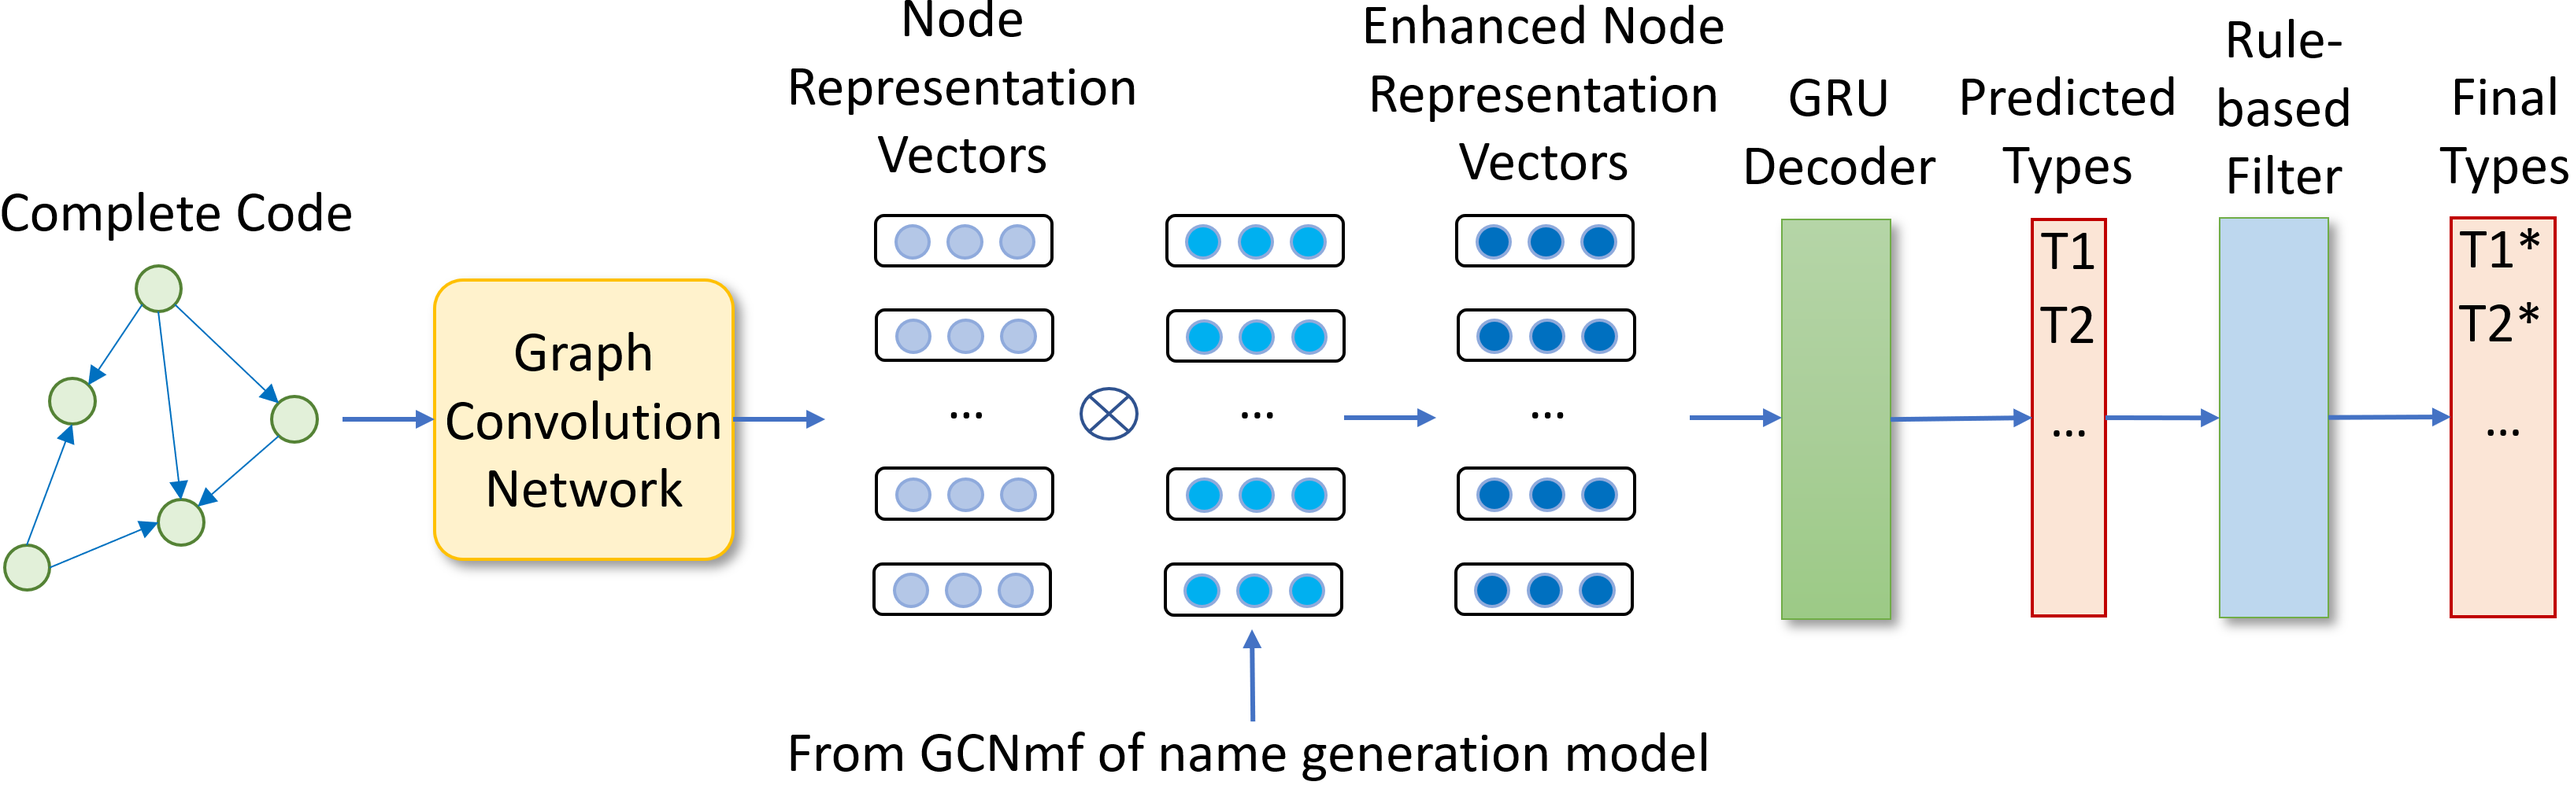
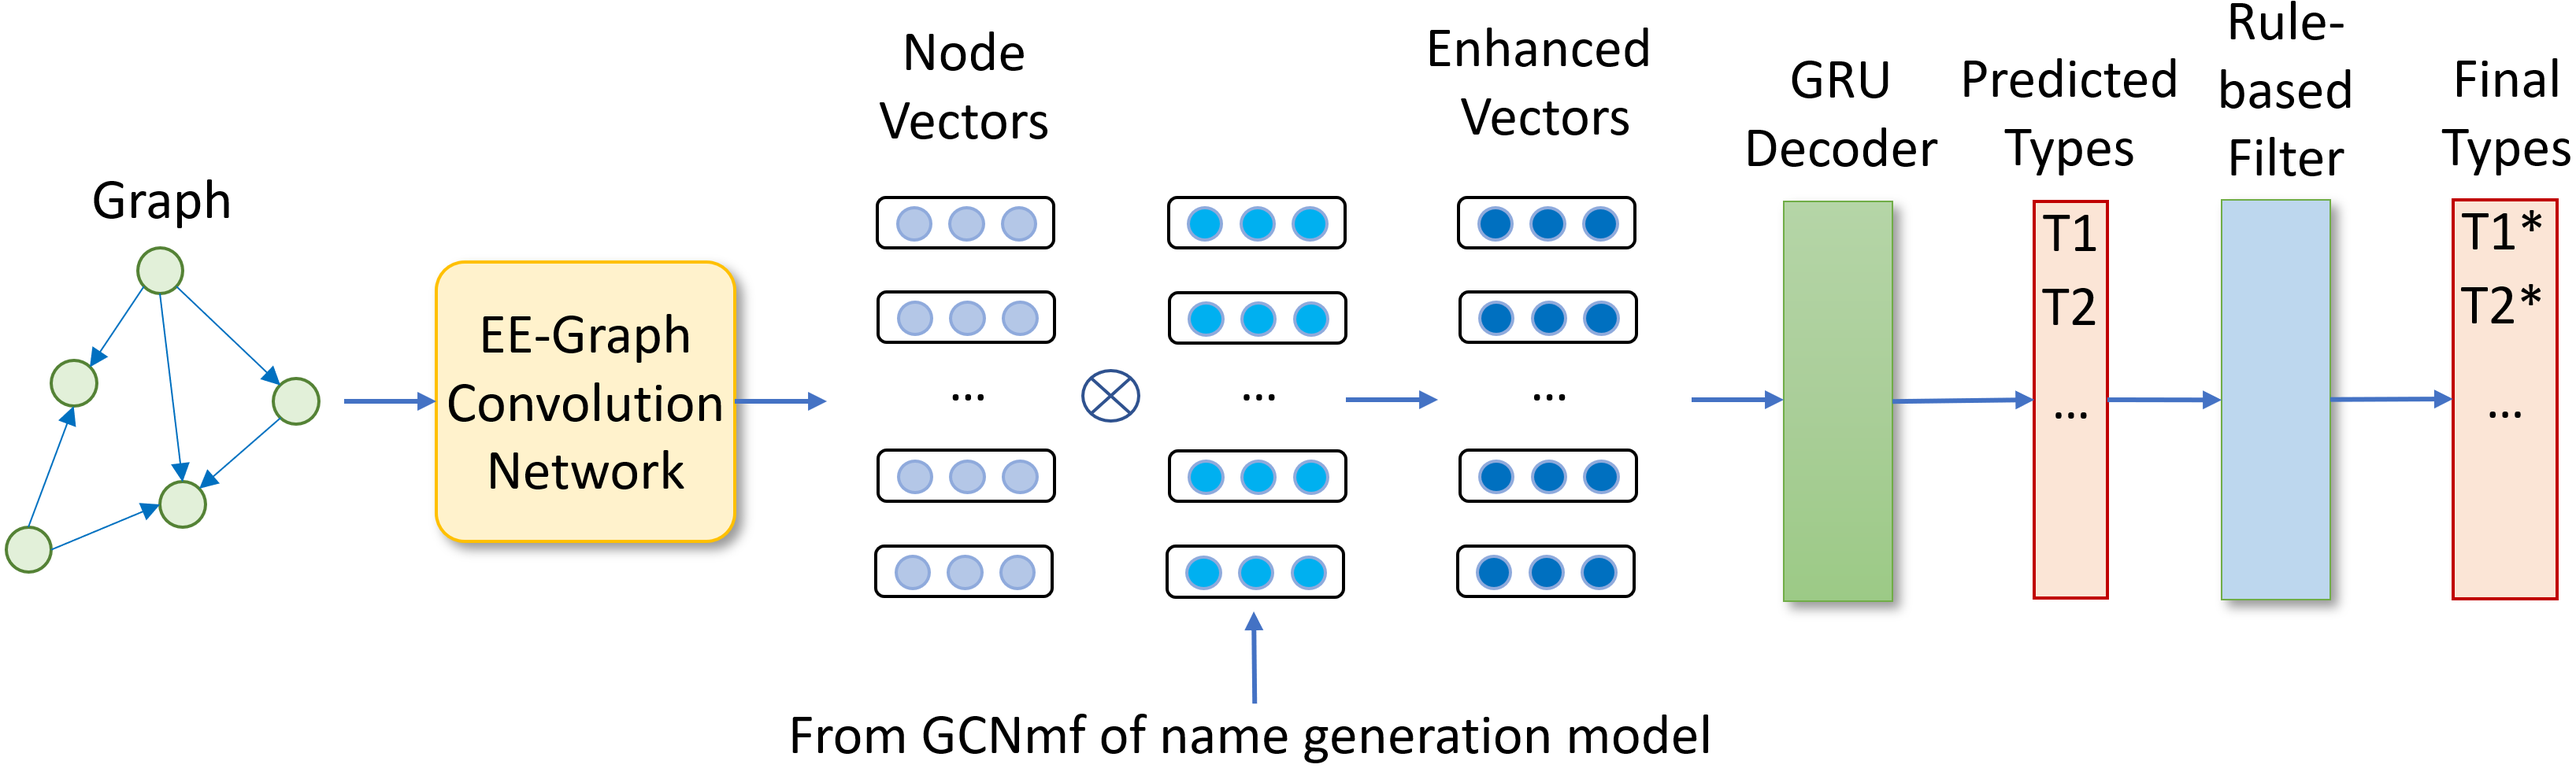
up to Section 5

diff --git a/sections/overview.tex b/sections/overview.tex
@@ -3,8 +3,8 @@
 
 \begin{figure}[t]
 	\begin{center}
-	  \includegraphics[width=\columnwidth]{figures/overview.png}
-          \vspace{-15pt}
+	  \includegraphics[width=0.95\columnwidth]{figures/overview.png}
+          \vspace{-10pt}
 		\caption{{\tool}: Architecture Overview}
 		\label{overview}
 	\end{center}
@@ -19,44 +19,49 @@
 %	\end{center}
 %\end{figure}
 
-There are two main processes in {\tool}: training and predicting.
+%There are two main processes in {\tool}: training and predicting.
 
-Figure~\ref{overview} illustrates the overall process, which takes as
-input the minified code with all the original variables' names and
-types. The process contains the following key steps. First, we parse
-the minified code and build two representation graphs: 1) the type
-dependency graph~\cite{type-graph-icse22} representing the relations
-among the types of the variables in a function/method, and 2) the
-variable relation graph~\cite{icse19} represent the usage context of a
-variable with regard to its field accesses and method calls. The two
-graphs are merged into a representation graph.
+Figure~\ref{overview} illustrates the overall process. The input is
+the minified code with all the original variables' names and types
+during training and without them during the prediction.
+%
+The process contains the following key steps. First, the minified code
+is parsed and two feature graphs are extracted: 1) the Type Dependency
+Graph~\cite{type-graph-icse22} representing the relations among the
+types of the variables in a function/method according to type
+inference rules, and 2) the Relation Graph~\cite{icse19} represent the
+relations among the variables including the ones via field accesses
+and method calls (Section~\ref{sec:concepts}). The two graphs can
+always be extracted for minified code in both training or
+prediction. They will be merged into a representation graph.
 
-We have two models dedicated to two tasks: variable type generation
-(VTG) and variable name generation (VNG). The VTG model first extracts
-the features in a representation graph (e.g., the variables' names,
-the names of the fields and methods), and converts them into the input
-vectors for the VTG and VNG models. The VTG model leverages Label,
-Graph Convolution Network (Label-GCN)~\cite{label-gcn} with the
-support of an embedding model~\cite{pennington2014glove} as well as
-the Gate Recurrent Unit (GRU). The actual types of the
-variables in the input minified code are used as the labels during the
-training. For type prediction (Figure~\ref{overview}), the same
-process is used except that the types of the variables are predicted
-using the trained VTG model. When generating the types, we use some
-basic rule from parser to eliminate the impossible candidates.
+We have two models dedicated to the two tasks: Variable Type
+Generation (VTG) and Variable Name Generation (VNG). The VTG model
+first extracts the features in a representation graph (e.g., the
+variables' names, the names of the fields and methods), and converts
+them into the input vectors for the VTG and VNG models.
+
+The VTG model leverages Edge-Enhanced Graph Convolution Networks
+(EE-GCN)~\cite{ee-gcn} with the support of an embedding
+model~\cite{pennington2014glove} as well as the Gate Recurrent Unit
+(GRU). The actual variable types in the input minified code
+are used as the labels during training. For prediction, the same
+process is used except that the types are predicted
+using the trained model. To generate the types, we use type
+inference rules to eliminate the impossible candidates.
 
 The VNG model first extracts the features in the graph and builds the
 representation vectors. For the nodes that represent the variables
 with the minified names, we mask the node features and regard them as
 the missing features, and then feed the graph with missing features
-into the Label-GCN~\cite{label-gcn}. We leverage that GCN model and
-others to generate the candidate names for the minified ones. The
-actual names of the variables in the input minified code are used as
-the labels during the training. For name prediction
-(Figure~\ref{overview}), the same process is used except that the
-names of the variables are predicted using the trained VTG model. When
-generating the names, we use program analysis rules to ensure the
-consistencies among the names.
+into a Graph Convolution Network - Missing Features
+(GCNmf)~\cite{GCNmf}. The actual names
+of the variables in the input minified code are used as the labels
+during the training. For name prediction (Figure~\ref{overview}), the
+same process is used except that the names of the variables are
+predicted using the trained VTG model. When generating the names, we
+use program analysis rules to ensure the consistencies among the
+names.
 
 To propagate the impact of type prediction to name prediction and vice
 versa, we apply a dual-task learning mechanism between VTG and VNG

diff --git a/sections/motiv.tex b/sections/motiv.tex
@@ -173,9 +173,9 @@ be consistent.
 \noindent {\bf Key Idea 2.} [{\bf Relations among Variables in a
     Function}] {\em A variable name or type are influenced by the
   names or the properties of the other variables having the relations
-  with that variable} in the surrounding context. We leverage Label,
-Graph Convolution Network (Label-GCN)~\cite{label-gcn} to model
-different kinds of relations among the variables and among their
+  with that variable} in the surrounding context. We leverage
+Edge-Enhanced Graph Convolution Networks (EE-GCN)~\cite{ee-gcn} to
+model different kinds of relations among the variables and among their
 types in the function/method.
 %For example, a model can be trained from the assignment
 %\code{preSelectionRange} = \code{range.cloneRange()} to predict the

diff --git a/sections/type-gen.tex b/sections/type-gen.tex
@@ -3,12 +3,14 @@
 
 \begin{figure*}[ht]
 	\begin{center}
-	  \includegraphics[width=5.7in]{figures/type-gen-model}
+	  \includegraphics[width=5in]{figures/type-gen-model}
           \vspace{-6pt}
-		\caption{The Variables Type Generation Model (VTG)}
+		\caption{The Variable Type Generation Model (VTG)}
 		\label{fig:type-gen}
 	\end{center}
 \end{figure*}
+
+This section presents the Variable Type Generation Model (VTG).
 
 Variable Type Generation:
 

diff --git a/sections/concepts.tex b/sections/concepts.tex
@@ -1,5 +1,5 @@
 \section{Important Concepts}
-\label{concepts:sec}
+\label{sec:concepts}
 
 Let us provide the important concepts used in {\tool}.
 
